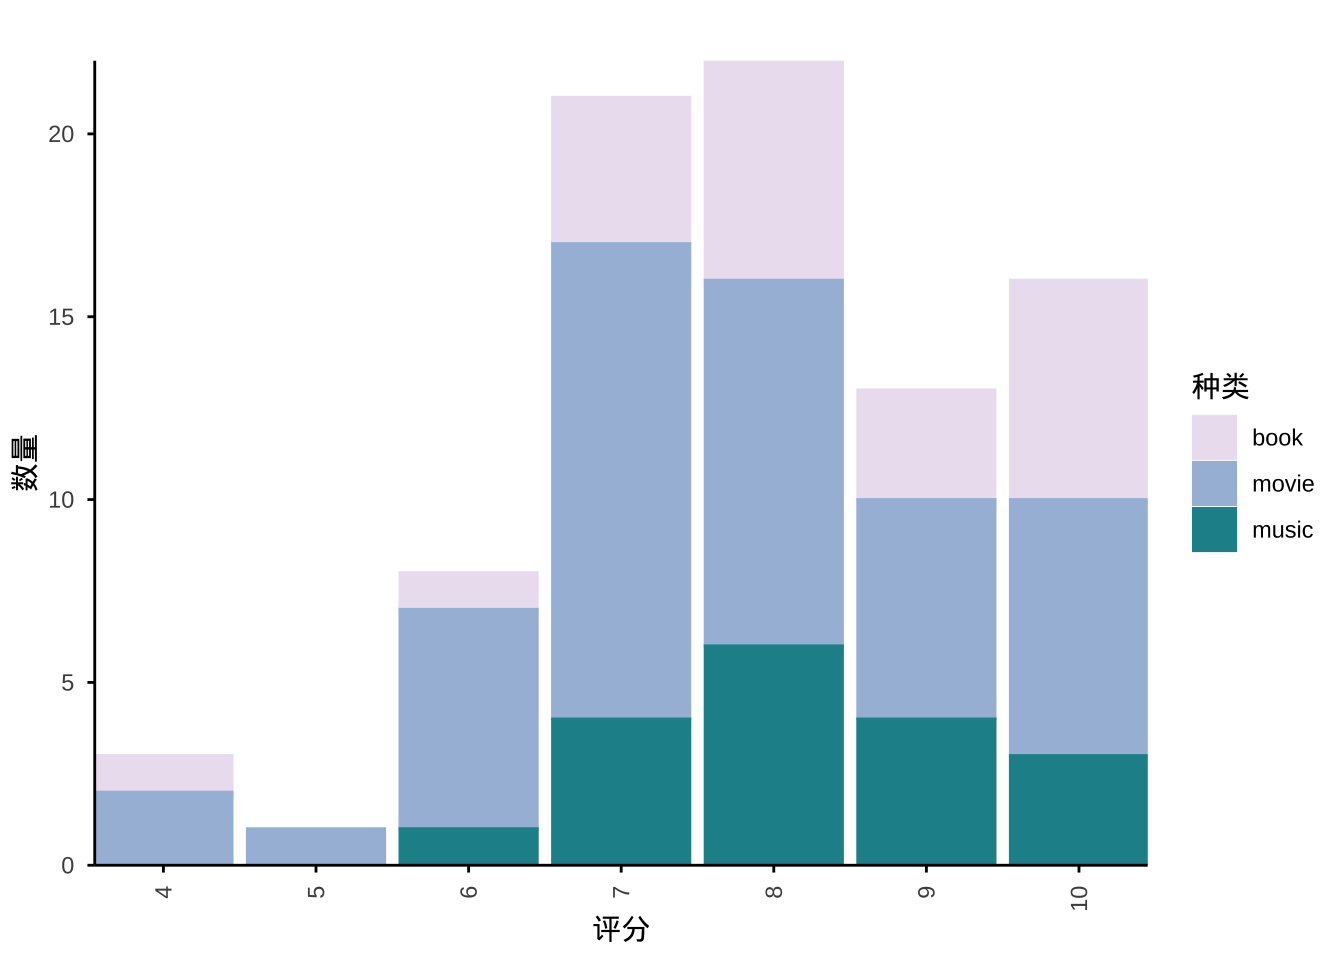
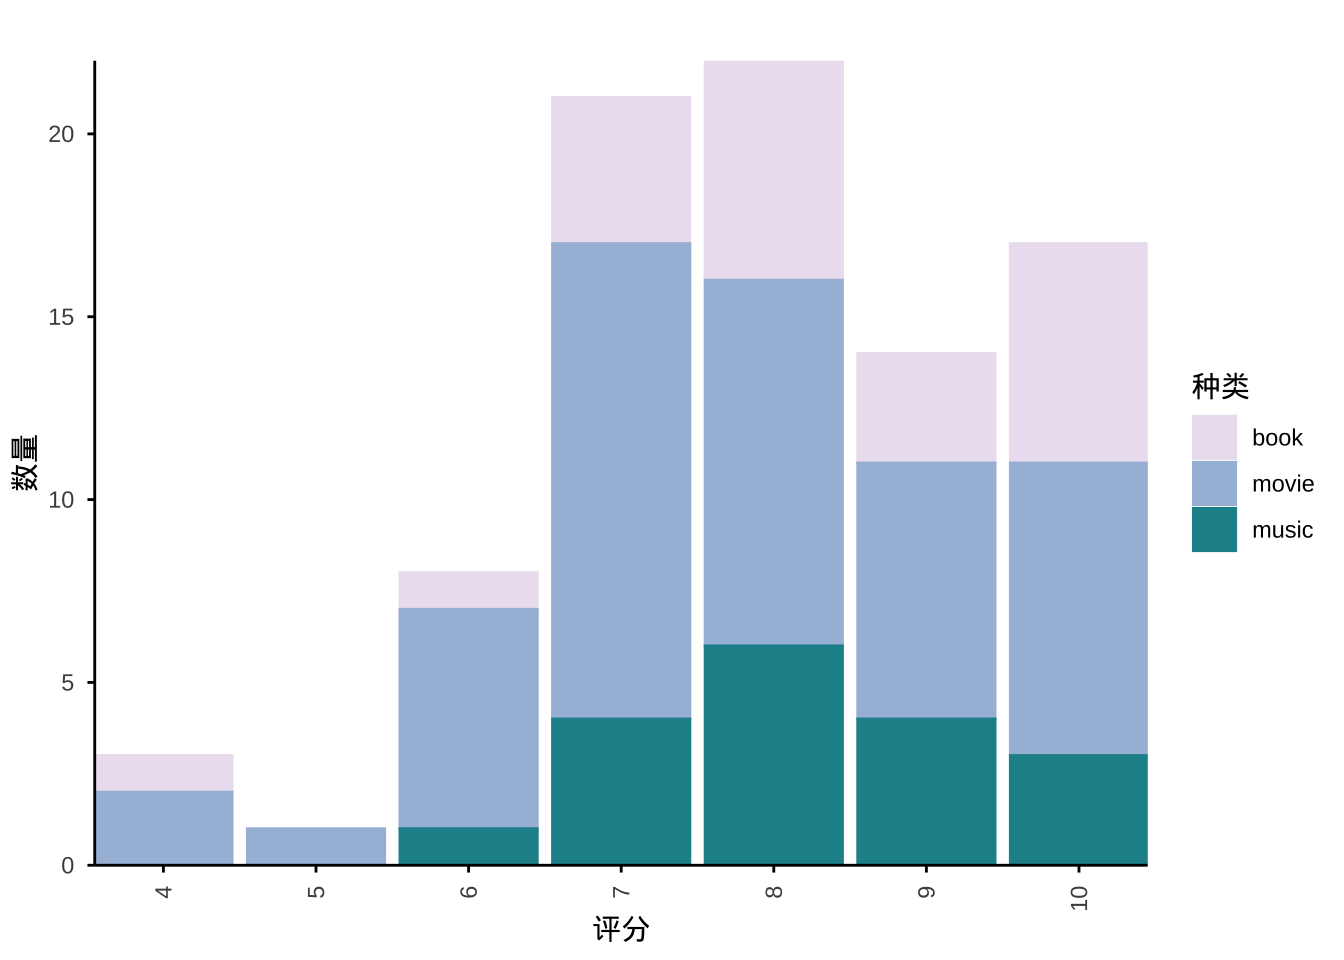
new features

Changed region(s): [[0.625, 0.4688, 0.875, 0.5312], [0.625, 0.3438, 0.75, 0.4062], [0.75, 0.25, 0.875, 0.3125]]

diff --git a/docs/personal/nd_personal_library/index.html b/docs/personal/nd_personal_library/index.html
@@ -457,7 +457,7 @@ gtag('config', 'G-XJSP4R93HW', { 'anonymize_ip': true});
 <summary>
 2026
 </summary>
-<p>2026年，我一共看了 <code>3</code> 本书，<code>19</code> 部电影/电视剧/动画，<code>2</code> 场演出。</p>
+<p>2026年，我一共看了 <code>3</code> 本书，<code>21</code> 部电影/电视剧/动画，<code>2</code> 场演出。</p>
 <div class="callout callout-style-simple callout-none no-icon">
 <div class="callout-body d-flex">
 <div class="callout-icon-container">
@@ -685,6 +685,22 @@ gtag('config', 'G-XJSP4R93HW', { 'anonymize_ip': true});
 <td style="text-align: right;">1984</td>
 <td style="text-align: right;">7</td>
 <td style="text-align: left;">为了Lana的歌去看的，画面和表现形式很美，剧情后面落得太实了，有点拉</td>
+</tr>
+<tr class="even">
+<td style="text-align: left;">2026-06-24</td>
+<td style="text-align: left;">李米的猜想</td>
+<td style="text-align: left;">曹保平</td>
+<td style="text-align: right;">2008</td>
+<td style="text-align: right;">9</td>
+<td style="text-align: left;">很有年代感的爱情片，所有人都很恋爱脑很单纯。周迅的演技太好了，最后一段看录像带的真的是神来之笔</td>
+</tr>
+<tr class="odd">
+<td style="text-align: left;">2026-06-25</td>
+<td style="text-align: left;">蓝色大门</td>
+<td style="text-align: left;">易智言</td>
+<td style="text-align: right;">2002</td>
+<td style="text-align: right;">10</td>
+<td style="text-align: left;">特别特别完美的青春片。男女主都好可爱。“我闭上眼睛看不到我自己 但我可以看见你” 啊呀。真的是高中生的想法……</td>
 </tr>
 </tbody>
 </table>
@@ -1588,8 +1604,8 @@ gtag('config', 'G-XJSP4R93HW', { 'anonymize_ip': true});
 <tr class="even">
 <td style="text-align: left;">2026</td>
 <td style="text-align: right;">20</td>
-<td style="text-align: right;">69</td>
-<td style="text-align: right;">89</td>
+<td style="text-align: right;">72</td>
+<td style="text-align: right;">92</td>
 </tr>
 </tbody>
 </table>

diff --git a/docs/index.html b/docs/index.html
@@ -227,6 +227,11 @@ No matching items
 <p><a href="javascript:void(0)" id="random-post-btn" style="cursor: pointer;">Surprise me with</a> a random post!</p>
 <p>I’m constantly updating my <a href="./personal/nd_birding/index.html">birding megapost</a>.</p>
 <p>See what I’m reading and watching recently <a href="./personal/nd_personal_library/index.html">here</a>.</p>
+<ul>
+<li><p>Recently watched: <code>蓝色大门</code> by <code>易智言</code> on <code>6/25/26</code></p></li>
+<li><p>Recently read: <code>What It’s Like to Be a Bird</code> by <code>D. A. Sibley</code> on <code>5/31/26</code></p></li>
+<li><p>Recently attended: <code>Total Bummer</code> by <code>Dinosaur Jr; Meat Puppets</code> on <code>5/30/26</code></p></li>
+</ul>
 <p><a href="./work.html" class="button">work</a> <a href="./personal.html" class="button">personal</a> <a href="./archive.html" class="button">archive</a></p>
 <p><a href="./log.html" class="button">changelog</a> <a href="./about.html" class="button">about</a> <a href="./gallery.html" class="button">gallery</a></p>
 <p><a href="mailto:cosmicraven0530@gmail.com" class="button">email</a> <a href="index.xml" class="button">RSS</a></p>

diff --git a/docs/personal/240120_review_ride/index.html b/docs/personal/240120_review_ride/index.html
@@ -1050,7 +1050,7 @@ window.document.addEventListener("DOMContentLoaded", function (event) {
 </nav>
 </div> <!-- /content -->
 <script src="../../scripts/mylikebutton.js"></script>
-<script>var lightboxQuarto = GLightbox({"closeEffect":"zoom","descPosition":"bottom","openEffect":"zoom","selector":".lightbox","loop":false});
+<script>var lightboxQuarto = GLightbox({"loop":false,"closeEffect":"zoom","selector":".lightbox","descPosition":"bottom","openEffect":"zoom"});
 (function() {
   let previousOnload = window.onload;
   window.onload = () => {

diff --git a/docs/personal/241214_radio/index.html b/docs/personal/241214_radio/index.html
@@ -1149,7 +1149,7 @@ window.document.addEventListener("DOMContentLoaded", function (event) {
 </nav>
 </div> <!-- /content -->
 <script src="../../scripts/mylikebutton.js"></script>
-<script>var lightboxQuarto = GLightbox({"selector":".lightbox","openEffect":"zoom","descPosition":"bottom","closeEffect":"zoom","loop":false});
+<script>var lightboxQuarto = GLightbox({"selector":".lightbox","descPosition":"bottom","closeEffect":"zoom","loop":false,"openEffect":"zoom"});
 (function() {
   let previousOnload = window.onload;
   window.onload = () => {

diff --git a/docs/personal/251231_radio/index.html b/docs/personal/251231_radio/index.html
@@ -1255,7 +1255,7 @@ window.document.addEventListener("DOMContentLoaded", function (event) {
 </nav>
 </div> <!-- /content -->
 <script src="../../scripts/mylikebutton.js"></script>
-<script>var lightboxQuarto = GLightbox({"openEffect":"zoom","closeEffect":"zoom","loop":false,"selector":".lightbox","descPosition":"bottom"});
+<script>var lightboxQuarto = GLightbox({"loop":false,"closeEffect":"zoom","selector":".lightbox","openEffect":"zoom","descPosition":"bottom"});
 (function() {
   let previousOnload = window.onload;
   window.onload = () => {

diff --git a/docs/personal/260112_birding_eaglecreek/index.html b/docs/personal/260112_birding_eaglecreek/index.html
@@ -1080,7 +1080,7 @@ window.document.addEventListener("DOMContentLoaded", function (event) {
 </nav>
 </div> <!-- /content -->
 <script src="../../scripts/mylikebutton.js"></script>
-<script>var lightboxQuarto = GLightbox({"loop":false,"openEffect":"zoom","selector":".lightbox","descPosition":"bottom","closeEffect":"zoom"});
+<script>var lightboxQuarto = GLightbox({"descPosition":"bottom","loop":false,"closeEffect":"zoom","openEffect":"zoom","selector":".lightbox"});
 (function() {
   let previousOnload = window.onload;
   window.onload = () => {

diff --git a/docs/personal/260117_travel_baltimore_music/index.html b/docs/personal/260117_travel_baltimore_music/index.html
@@ -1246,7 +1246,7 @@ window.document.addEventListener("DOMContentLoaded", function (event) {
 </nav>
 </div> <!-- /content -->
 <script src="../../scripts/mylikebutton.js"></script>
-<script>var lightboxQuarto = GLightbox({"openEffect":"zoom","descPosition":"bottom","selector":".lightbox","closeEffect":"zoom","loop":false});
+<script>var lightboxQuarto = GLightbox({"selector":".lightbox","descPosition":"bottom","closeEffect":"zoom","loop":false,"openEffect":"zoom"});
 (function() {
   let previousOnload = window.onload;
   window.onload = () => {

diff --git a/docs/personal/260124_travel_baltimore_railroad/index.html b/docs/personal/260124_travel_baltimore_railroad/index.html
@@ -1293,7 +1293,7 @@ window.document.addEventListener("DOMContentLoaded", function (event) {
 </nav>
 </div> <!-- /content -->
 <script src="../../scripts/mylikebutton.js"></script>
-<script>var lightboxQuarto = GLightbox({"closeEffect":"zoom","selector":".lightbox","openEffect":"zoom","loop":false,"descPosition":"bottom"});
+<script>var lightboxQuarto = GLightbox({"closeEffect":"zoom","loop":false,"descPosition":"bottom","openEffect":"zoom","selector":".lightbox"});
 (function() {
   let previousOnload = window.onload;
   window.onload = () => {

diff --git a/docs/personal/260304_radio/index.html b/docs/personal/260304_radio/index.html
@@ -1078,7 +1078,7 @@ window.document.addEventListener("DOMContentLoaded", function (event) {
 </nav>
 </div> <!-- /content -->
 <script src="../../scripts/mylikebutton.js"></script>
-<script>var lightboxQuarto = GLightbox({"closeEffect":"zoom","descPosition":"bottom","openEffect":"zoom","selector":".lightbox","loop":false});
+<script>var lightboxQuarto = GLightbox({"closeEffect":"zoom","descPosition":"bottom","selector":".lightbox","loop":false,"openEffect":"zoom"});
 (function() {
   let previousOnload = window.onload;
   window.onload = () => {

diff --git a/docs/personal/260326_birding_celerybog/index.html b/docs/personal/260326_birding_celerybog/index.html
@@ -1080,7 +1080,7 @@ window.document.addEventListener("DOMContentLoaded", function (event) {
 </nav>
 </div> <!-- /content -->
 <script src="../../scripts/mylikebutton.js"></script>
-<script>var lightboxQuarto = GLightbox({"closeEffect":"zoom","selector":".lightbox","loop":false,"openEffect":"zoom","descPosition":"bottom"});
+<script>var lightboxQuarto = GLightbox({"descPosition":"bottom","selector":".lightbox","openEffect":"zoom","loop":false,"closeEffect":"zoom"});
 (function() {
   let previousOnload = window.onload;
   window.onload = () => {

diff --git a/docs/personal/260328_travel_baltimore_citywalk/index.html b/docs/personal/260328_travel_baltimore_citywalk/index.html
@@ -1240,7 +1240,7 @@ window.document.addEventListener("DOMContentLoaded", function (event) {
 </nav>
 </div> <!-- /content -->
 <script src="../../scripts/mylikebutton.js"></script>
-<script>var lightboxQuarto = GLightbox({"closeEffect":"zoom","selector":".lightbox","openEffect":"zoom","loop":false,"descPosition":"bottom"});
+<script>var lightboxQuarto = GLightbox({"descPosition":"bottom","openEffect":"zoom","selector":".lightbox","loop":false,"closeEffect":"zoom"});
 (function() {
   let previousOnload = window.onload;
   window.onload = () => {

diff --git a/docs/personal/260402_diary_citymouse/index.html b/docs/personal/260402_diary_citymouse/index.html
@@ -1077,7 +1077,7 @@ window.document.addEventListener("DOMContentLoaded", function (event) {
 </nav>
 </div> <!-- /content -->
 <script src="../../scripts/mylikebutton.js"></script>
-<script>var lightboxQuarto = GLightbox({"loop":false,"openEffect":"zoom","descPosition":"bottom","closeEffect":"zoom","selector":".lightbox"});
+<script>var lightboxQuarto = GLightbox({"descPosition":"bottom","selector":".lightbox","openEffect":"zoom","closeEffect":"zoom","loop":false});
 (function() {
   let previousOnload = window.onload;
   window.onload = () => {
